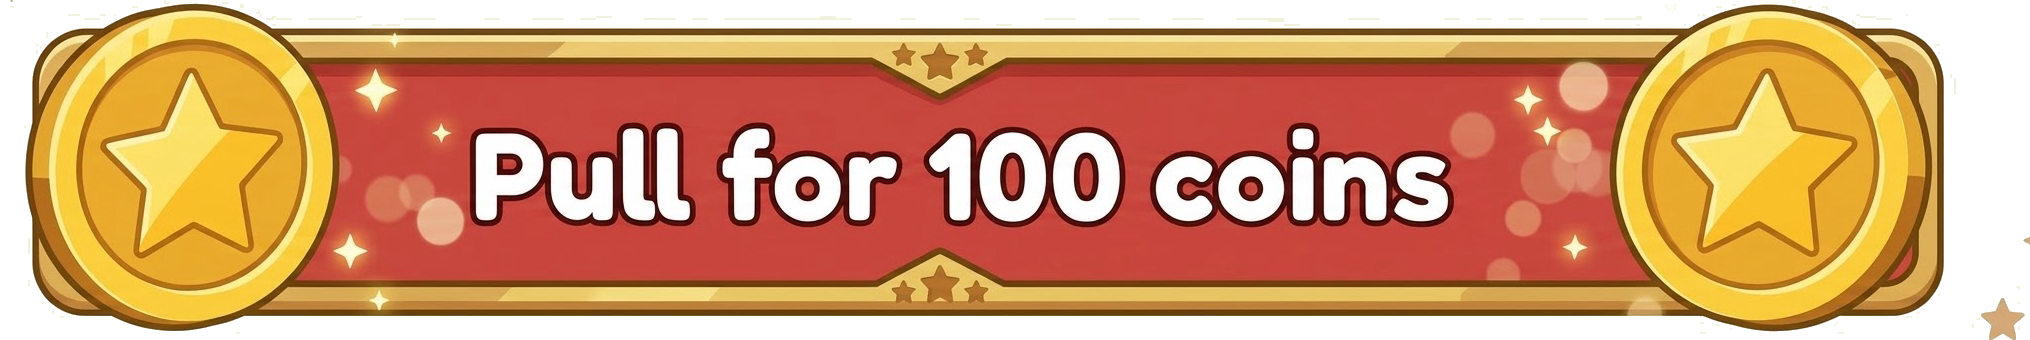
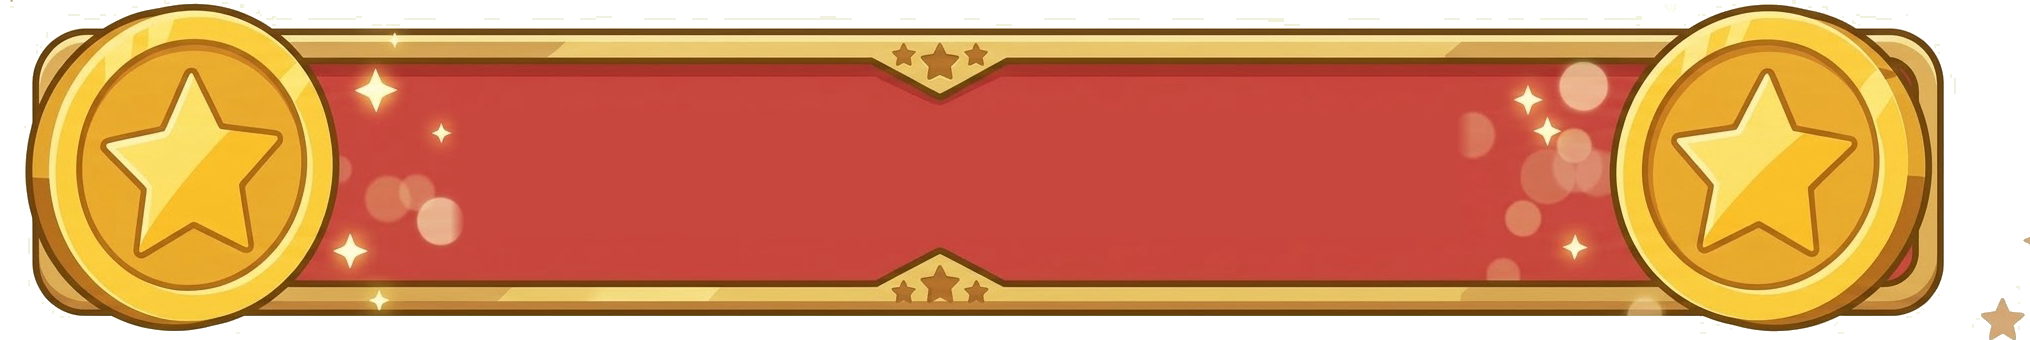
Lower gacha pull cost to 50 coins; align coin-pack card content
- GACHA_COST: 100 -> 50, updated everywhere it's used (transaction
  checks) plus the How to Play text.
- The gacha Pull button's banner art had "Pull for 100 coins" baked
  directly into the PNG, so the price needed to live in real markup
  instead of the image to ever change again. Removed the baked-in
  text from icons/gacha-pull-btn.png (inpainted with the banner's own
  flat red fill, feathered at the edges so it blends with the
  surrounding gradient/bokeh - verified no ghosting survived at full
  res) and replaced it with a centered #gacha-pull-btn-text overlay,
  styled to match the original text (white fill, dark maroon outline
  sampled from the removed text) and driven by
  `Pull for ${GACHA_COST} coins` in renderGachaScreen(). The .soldout
  state (different message, different styling) is untouched.
- Coin-pack cards (Free/500/1200/3000): gave every card an empty
  .coin-pack-status placeholder matching the Free card's real
  "N left today" status line, so all four reserve the same vertical
  space above their button regardless of whether they actually use
  it - previously the shorter cards' icon/amount/label sat higher
  than the Free card's, visibly out of line with it even though the
  buttons below them already matched up (pinned to the bottom via
  margin-top:auto).

Claude-Session: https://claude.ai/code/session_01WcnMHXCnjksfvrZ4RXcXcy

Changed region(s): [[0.2172, 0.3529, 0.7138, 0.6765], [0.7138, 0.3529, 0.7448, 0.4412]]

diff --git a/index.html b/index.html
@@ -207,7 +207,14 @@
     font-family: 'Fredoka', sans-serif; font-weight: 700; font-size: 10px; letter-spacing: .03em;
     box-shadow: 0 2px 4px rgba(0,0,0,.18); margin-bottom: 2px;
   }
-  #watch-ad-status { color: #c9542f; font-weight: 800; font-size: 11px; min-height: 1.2em; margin-bottom: 3px; }
+  /* Shared by every coin-pack card (not just the ad-reward one) so a card
+     without its own status line (the 500/1200/3000 packs) still reserves the
+     same vertical slot - otherwise their shorter content sat higher than the
+     ad-reward card's (which has the real "N left today" line), throwing the
+     "500"/"1,200"/"3,000" and "COINS" labels out of alignment with the Free
+     card's even though the buttons below them still matched up (pinned to
+     the bottom via margin-top:auto). */
+  .coin-pack-status { color: #c9542f; font-weight: 800; font-size: 11px; min-height: 1.2em; margin-bottom: 3px; }
   .ad-reward-btn { background: linear-gradient(180deg, #7bce5a 0%, #58a83c 100%) !important; }
   /* 2x2: the free-coins card and all 3 purchasable packs are one unified
      family of same-size tiles now, instead of a separate full-width hero
@@ -348,15 +355,28 @@
   .coming-soon-sub { margin: 0; font-size: 13px; color: var(--text-muted); }
   #gacha-status { text-align: center; font-size: 14px; min-height: 1.4em; }
   #gacha-status.error { color: var(--red); font-weight: 700; }
-  #gacha-pull-btn { display: block; width: 100%; margin: 6px 0 0; padding: 0; border: none; background: none; }
+  #gacha-pull-btn { position: relative; display: block; width: 100%; margin: 6px 0 0; padding: 0; border: none; background: none; }
   #gacha-pull-btn.shake { animation: gachaPullShake .4s ease-in-out; }
   #gacha-pull-btn-img { display: block; width: 100%; height: auto; }
   #gacha-pull-btn-text { display: none; }
-  /* Mid-pull (.busy): keep the artwork visible, just dimmed, rather than
-     swapping to text - only "every avatar is already unlocked" (.soldout)
-     replaces it with a real message, since that's a different, non-
-     temporary reason the button can't be used. */
+  /* The banner art (icons/gacha-pull-btn.png) used to have "Pull for 100
+     coins" baked into the image - the price text now lives here instead, as
+     a real overlay centered on the (price-free) art, so a cost change is
+     just a number in code and never needs new art again. Styled to match
+     the look the baked-in text used to have (white fill, dark maroon
+     outline sampled from the original art). */
+  #gacha-pull-btn:not(.soldout) #gacha-pull-btn-text {
+    display: flex; position: absolute; inset: 0; align-items: center; justify-content: center;
+    font-family: 'Fredoka', sans-serif; font-weight: 700; font-size: 20px; color: #fff;
+    text-shadow: -1.5px -1.5px 0 #4b0d0c, 1.5px -1.5px 0 #4b0d0c, -1.5px 1.5px 0 #4b0d0c, 1.5px 1.5px 0 #4b0d0c,
+                 0 -1.5px 0 #4b0d0c, 0 1.5px 0 #4b0d0c, -1.5px 0 0 #4b0d0c, 1.5px 0 0 #4b0d0c;
+  }
+  /* Mid-pull (.busy): keep the artwork (and its price text) visible, just
+     dimmed, rather than swapping to a different message - only "every
+     avatar is already unlocked" (.soldout) replaces it with a real message,
+     since that's a different, non-temporary reason the button can't be used. */
   #gacha-pull-btn.busy #gacha-pull-btn-img { opacity: .5; filter: grayscale(.3); }
+  #gacha-pull-btn.busy #gacha-pull-btn-text { opacity: .5; filter: grayscale(.3); }
   #gacha-pull-btn.soldout #gacha-pull-btn-img { display: none; }
   #gacha-pull-btn.soldout #gacha-pull-btn-text {
     display: block; padding: 14px; border-radius: 999px;
@@ -1805,13 +1825,14 @@
           <img class="coin-pack-icon" src="icons/shop-coin-reward.png" alt="">
           <div class="coin-pack-amount">+50</div>
           <div class="coin-pack-label">Coins</div>
-          <div id="watch-ad-status"></div>
+          <div id="watch-ad-status" class="coin-pack-status"></div>
           <button id="watch-ad-btn" type="button" class="coin-pack-buy-btn ad-reward-btn">Watch Ad</button>
         </div>
         <div class="coin-pack-card">
           <img class="coin-pack-icon" src="icons/shop-coin-stack-500.png" alt="">
           <div class="coin-pack-amount">500</div>
           <div class="coin-pack-label">Coins</div>
+          <div class="coin-pack-status"></div>
           <button type="button" class="coin-pack-buy-btn" data-coins="500">$1.99 &middot; Buy Now</button>
         </div>
         <div class="coin-pack-card popular">
@@ -1819,6 +1840,7 @@
           <img class="coin-pack-icon" src="icons/shop-coin-pile-1200.png" alt="">
           <div class="coin-pack-amount">1,200</div>
           <div class="coin-pack-label">Coins</div>
+          <div class="coin-pack-status"></div>
           <button type="button" class="coin-pack-buy-btn" data-coins="1200">$3.99 &middot; Buy Now</button>
         </div>
         <div class="coin-pack-card best-value">
@@ -1826,6 +1848,7 @@
           <img class="coin-pack-icon" src="icons/shop-treasure-chest-3000.png" alt="">
           <div class="coin-pack-amount">3,000</div>
           <div class="coin-pack-label">Coins</div>
+          <div class="coin-pack-status"></div>
           <button type="button" class="coin-pack-buy-btn" data-coins="3000">$7.99 &middot; Buy Now</button>
         </div>
       </div>
@@ -2003,7 +2026,7 @@
 
   <div class="howto-section">
     <h3>Avatar Shop</h3>
-    <p>Your score becomes coins when a game ends, win or lose. Open the <b>Avatar Shop</b> from the home screen to spend coins - each <b>Pull</b> costs 100 coins and unlocks a random avatar you don't already have. Rarer avatars (Rare, Ultra-rare) show up less often than Common ones. Tap <b>View All Avatars</b> from the shop to see every avatar grouped by rarity, with locked ones grayed out.</p>
+    <p>Your score becomes coins when a game ends, win or lose. Open the <b>Avatar Shop</b> from the home screen to spend coins - each <b>Pull</b> costs 50 coins and unlocks a random avatar you don't already have. Rarer avatars (Rare, Ultra-rare) show up less often than Common ones. Tap <b>View All Avatars</b> from the shop to see every avatar grouped by rarity, with locked ones grayed out.</p>
   </div>
 </div>
 
@@ -2595,7 +2618,7 @@
   // specific avatar can be dropped or replaced without renumbering every
   // id after it - each key here is a real file at avatars/<id>.png.
   const AVATARS = Object.keys(AVATAR_TIERS);
-  const GACHA_COST = 100;
+  const GACHA_COST = 50;
   const GACHA_TIER_WEIGHTS = { common: 0.65, rare: 0.25, ultra: 0.10 };
   // Unlocked-for-this-device avatars first (so what you can actually use isn't
   // buried among locked ones). AVATAR_TIERS' own key order *is* the curated
@@ -4096,6 +4119,7 @@
         // gives a "not enough" shake/error instead of silently doing nothing.
         gachaPullBtn.disabled = false;
         gachaPullBtn.classList.remove("soldout");
+        gachaPullBtnTextEl.textContent = `Pull for ${GACHA_COST} coins`;
       }
     }
 
